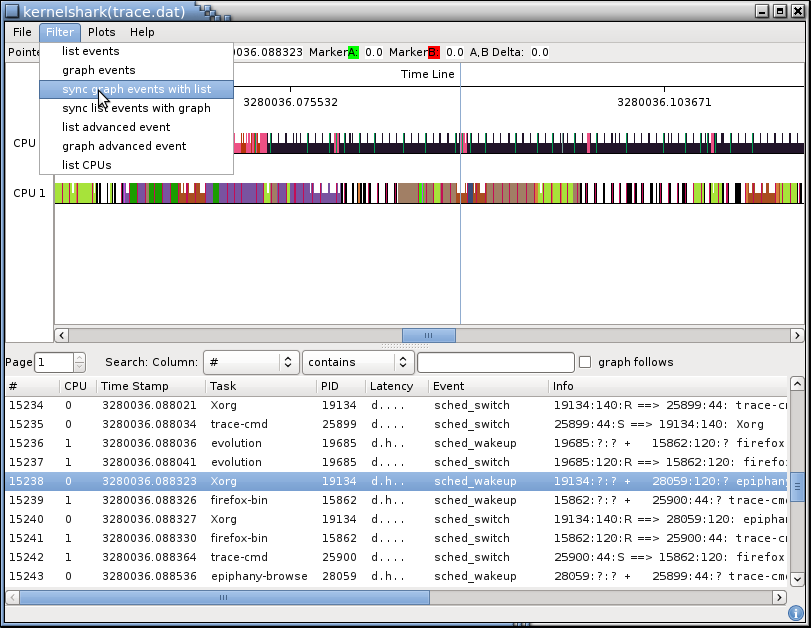
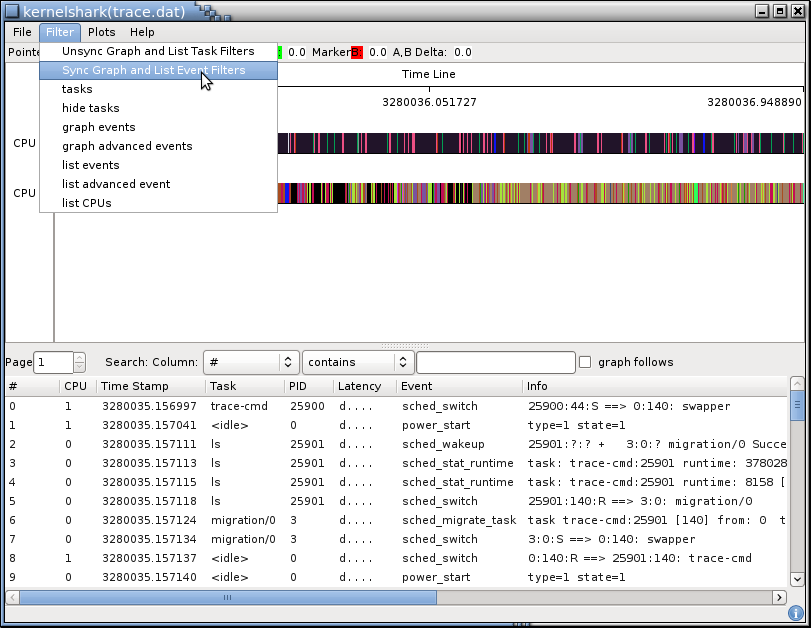
kernelshark: Update the HTML documentation to reflect the filter changes
Update the HTML kernelshark documentation to reflect the
separation of the list and graph task filters as well as updating
the fact that the event filters can now stay in sync.

diff --git a/Documentation/HTML/index.html b/Documentation/HTML/index.html
@@ -401,19 +401,32 @@ cursor.
 The amount of data that can be stored in a trace.dat file can be enormous.
 To make any sense out of some traces, it may be required to only display various
 events. The same can be true about tasks.
-Kernelshark has filters for tasks as well as for events. The task filter
-affects both the graph and the list, but the graph and list each have a separate
-event filter.
+Kernelshark has filters for tasks as well as for events.
+</p>
+
 <p>
+On start up of KernelShark, the task and event filters for the list and graph
+are kept synchronized. That is, any modification to the list filters will
+also update the graph filters, and vice versa. By selecting
+<b>Filter->Unsync Graph and List Task Filters</b> or
+<b>Filter->Unsync Graph and List Event Filters</b> will make the graph
+and list have their own task or event filters respectively.
+</b>
 
 <h2><a name="filter-task">Task Filter</a></h2>
 
 <p>
-The task filter is currently set by a right mouse click over
-an event on either the graph or the list view, and by selecting the option to add or remove the
-task to/from the task filter. The tasks within the task filter are the same for
-both the graph and list, but each can be enabled separately.
+The task filter can be set by either a right mouse click over an event
+on either the graph or the list view, and by selecting the option to add or remove the
+task to/from the task filter. A set of tasks may be added to the filters
+via the <b>Filter</b> menu in the menu bar.
 </p>
+
+<p>
+When tasks are selected from the menu bar the filter will be enabled
+automatically. When they are selected via the pop up menu, the filter needs to
+be enabled by the <b>Enable</b> menu also in the pop up menu.
+</b>
 
 <p>
 There are two types of task filters:
@@ -463,11 +476,24 @@ This may seem confusing when an event that is hidden shows up in the Task column
 <h2><a name="filter-event">Event Filter</a></h2>
 
 <p>
-The graph and list view each have their own event filter. The event filters
+Like the task filter, the graph and list event filters start off synchronized.
+To make the list and graph have their own filter, just select the
+<b>Filter->Unsync Graph and List Event Filters</b>.  The same can be done
+for task filters.
+</p>
+
+<img src="images/kshark-unsync-events.png">
+
+<p>
+Now the graph and list view will each have their own event filter. The event filters
 are enabled through the Filter menu on the top menu-bar.
 </p>
 
 <img src="images/kshark-filter.png">
+
+<p>
+Notice that the menu changed after selecting <b>Unsync Graph and List Event Filters</b>.
+The <b>events</b> option was replaced by <b>graph events</b> and <b>list events</b>.
 
 <p>
 Selecting either the "list events" or "graph events" will bring up the event
@@ -491,19 +517,32 @@ selected. By deselecting all events, it makes it easier to enable just a few ind
 <img src="images/kshark-filter-events-sched.png">
 
 <p>
-If it is desired that the graph and list view have the same events filtered, then just
-set up the desired filtering in one and then synchronize the other through
-the filter menu.
+To sync back the graph and list events, just select the <b>Sync Graph and List Event Filters</b>.
 </p>
 
 <img src="images/kshark-filter-sync-graph-1.png">
 
+<p>
+If the selected events for the graph and list event filters are the same, then
+the two will become in-sync again. If not, a dialog will pop up asking how you
+want to sync the filters.
+</p>
+
+<img src="images/kshark-filter-sync-dialog.png">
+
 <ul>
-<li><b>sync graph events with list</b> - will set the graph event filter to be the same
-as what is in the list filter.
-<li><b>sync list events with graph</b> - will set the list event filter to be the same
+<li><b>Sync List Filter with Graph Filter</b> - will set the list event filter to be the same
 as what is in the graph filter.
+<li><b>Sync Graph Filter with List Filter</b> - will set the graph event filter to be the same
+as what is in the list filter.
 </ul>
+
+<p>
+By default the <b>Keep the filters in sync</b> is selected. If this is selected when
+<b>OK</b> is clicked, the graph and list filters will stay synchronized when one is
+changed. By unselecting the <b>Keep</b> option, the filters will by synchronized by the
+selected method, but a change to one of the filters will not affect the other.
+</p>
 
 <h3><a name="filter-adv-event">Advanced Event Filter</a></h3>
 
